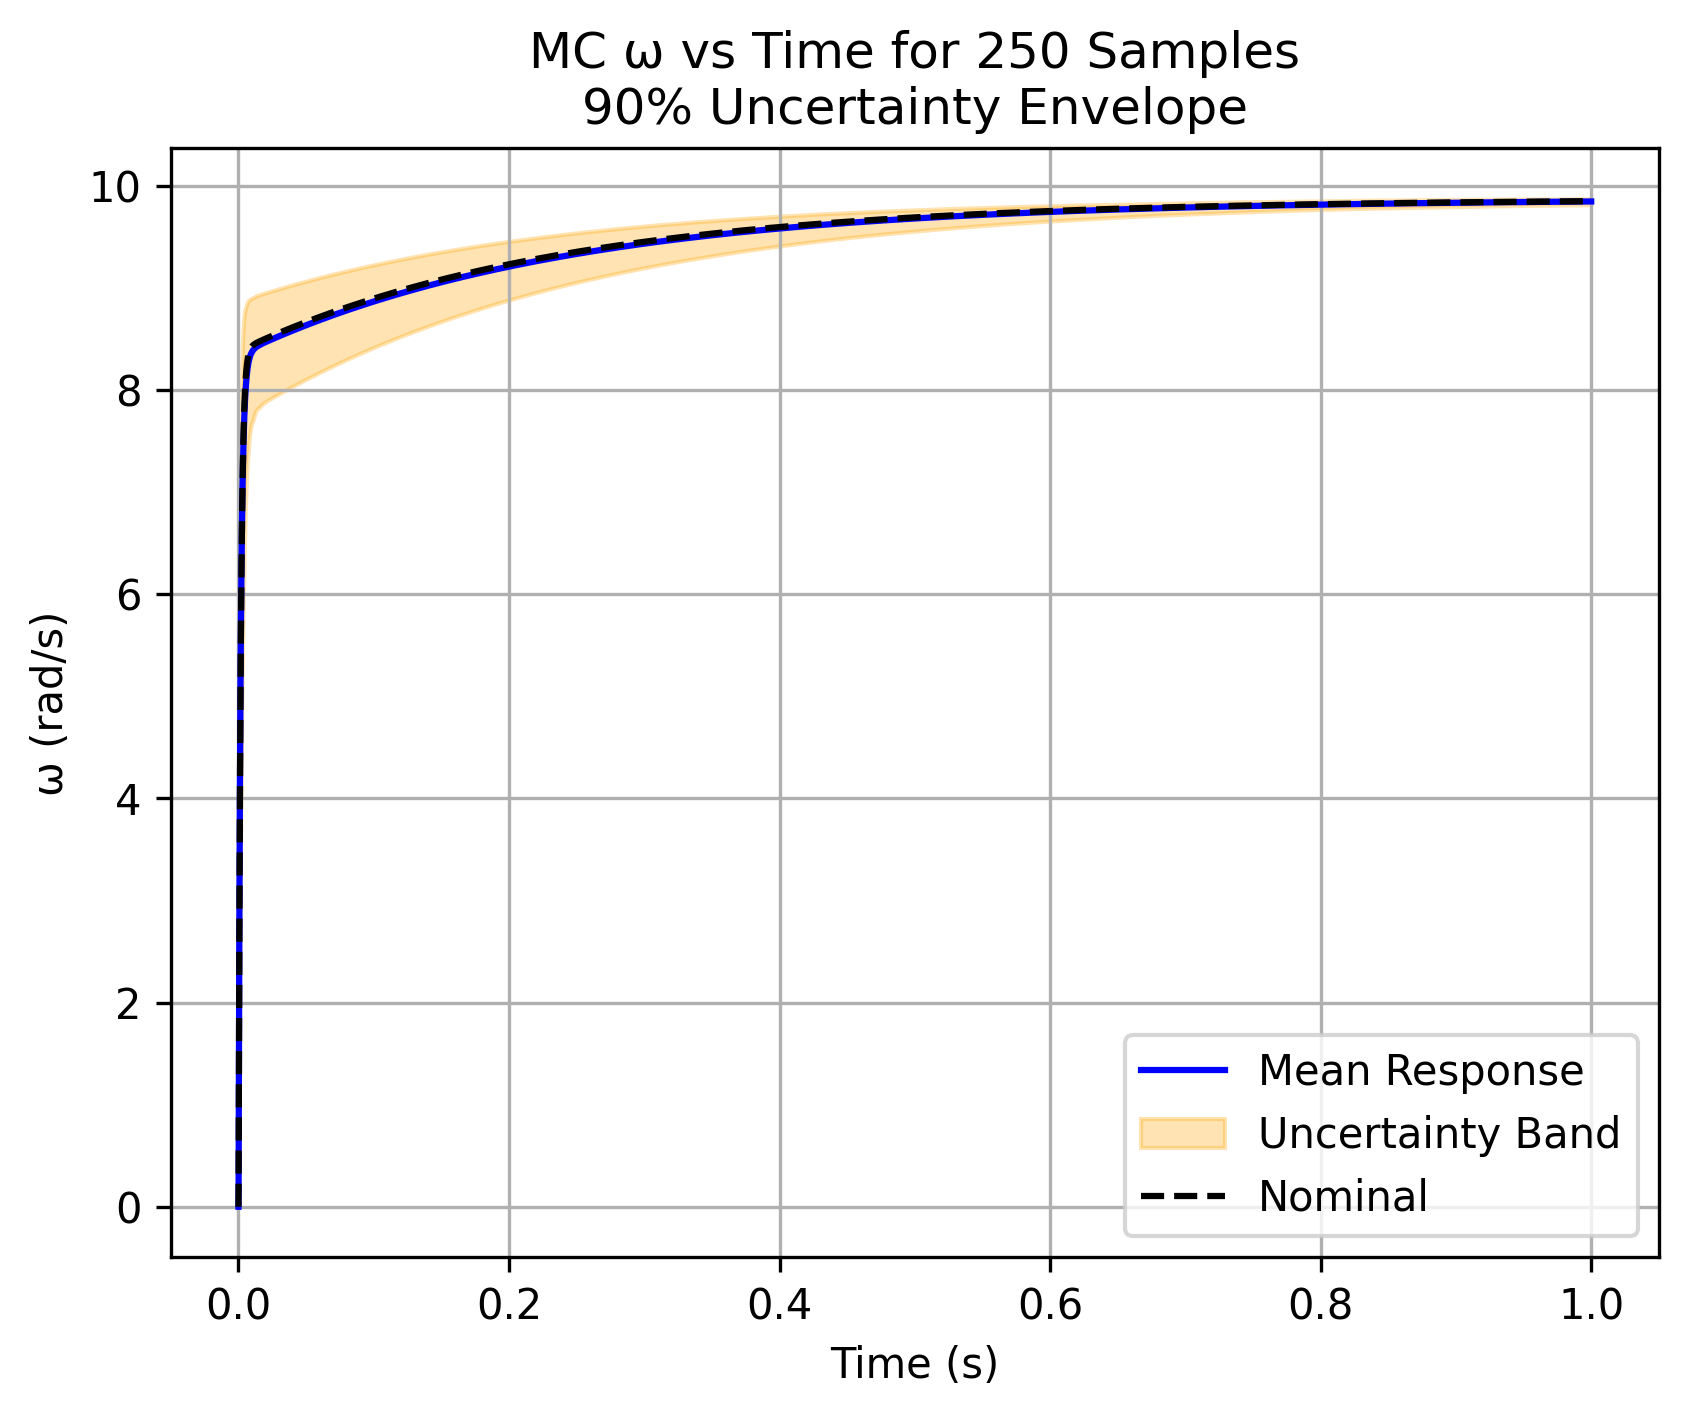
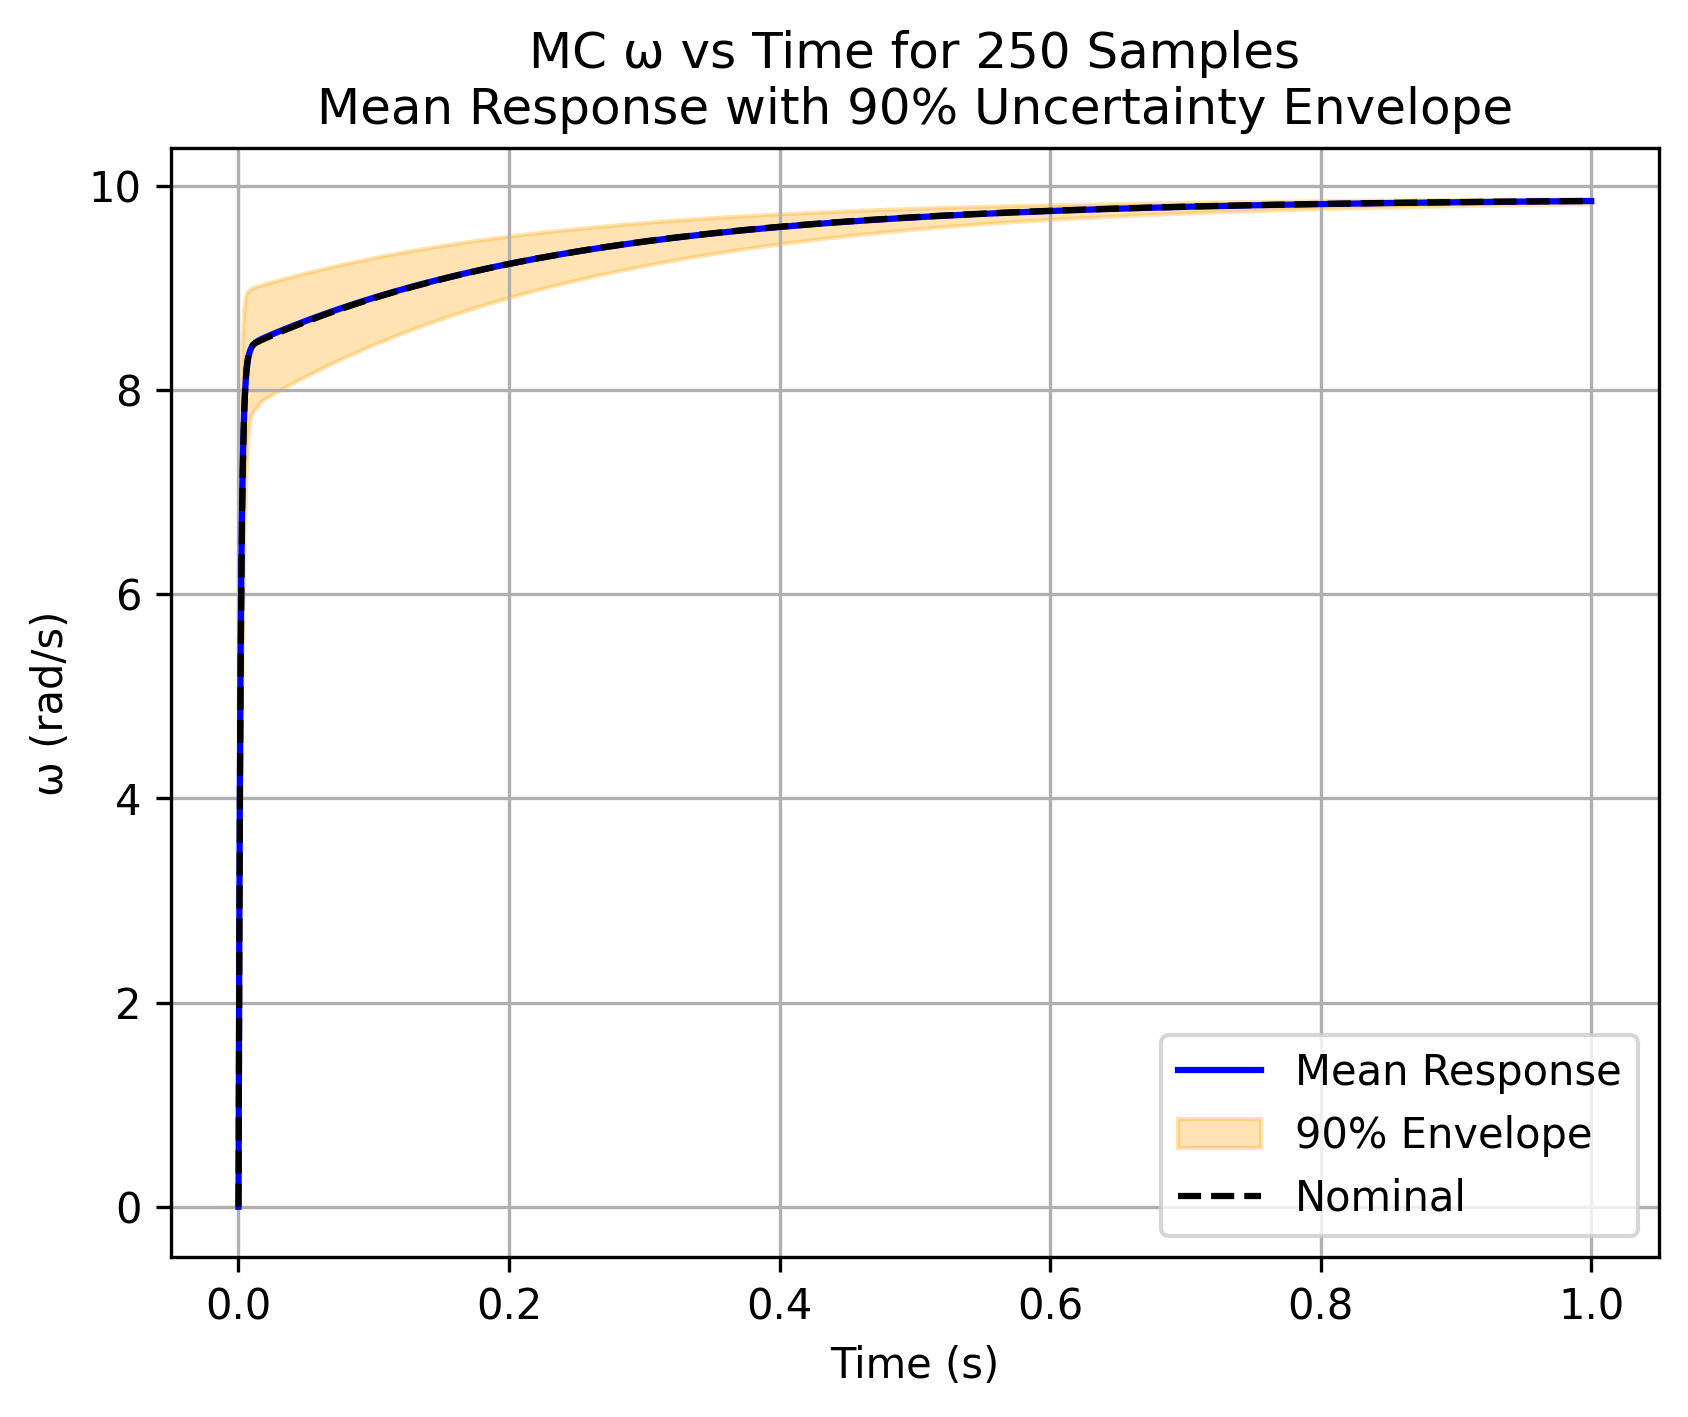
Fix w plotting solver bug. Fix histogram plotter.

diff --git a/dc_motor_uncertainty_simulation.py b/dc_motor_uncertainty_simulation.py
@@ -31,7 +31,7 @@ class CtrlPID:
         self.err_prev = err
         return P + I + D
 
-# Parallelism
+# Parallelism. Belongs in the MotorDC.
 def run_single_sample(args):
     params_i, y0, t_eval, target_w, pid_gains = args
 
@@ -99,36 +99,6 @@ class MotorDC():
         dwdt = (Kt*i - B*w)/J
         return [didt,dwdt]
 
-    def motor_model_solve(self, params_i:np.ndarray, y0:list, 
-                          t_span:tuple, t_eval:np.ndarray):
-        # fresh PID per sample solved.
-        pid = CtrlPID(target=self.target_w, gains=[self.Kp, self.Ki, self.Kd])
-
-        i_now = np.zeros_like(t_eval)
-        w_now = np.zeros_like(t_eval)
-
-        # Set IC
-        i_now[0], w_now[0] = y0
-        y = np.array(y0)
-
-        for k in range(len(t_eval)-1):
-            dt = t_eval[k+1] - t_eval[k]
-
-            # Update PID voltage  once per timestep
-            Vt = pid.sim_step(actual=w_now[k], dt=dt)
-
-            # Inegrate physics with constant Vt
-            sol = solve_ivp(fun = lambda t,y: self.motor_model(t, y, params_i, Vt), 
-                            t_span = (t_eval[k], t_eval[k+1]), 
-                            y0= y, 
-                            t_eval=[t_eval[k+1]]
-                            )
-            
-            y = sol.y[:, -1]
-            i_now[k+1], w_now[k+1] = y
-
-        return i_now, w_now
-
 # Sampling Methods
     def monte_carlo_sampling(self, n_samples:int=1000):
     # Make matrix to store vals. n_samples x n_params
@@ -179,11 +149,11 @@ class MotorDC():
         else:
             raise ValueError("Only: 'MC', 'LHS', and 'IS' sampling allowed.")
 
-    # Loop through all the samples in tqdm. Will take a while. 
         args_list = [
             (params[i], y0, self.t_eval, self.target_w, [self.Kp, self.Ki, self.Kd])
             for i in range(n_samples)
         ]
+        self.params = params
     
     # Convert lists to np arrays for faster handling
     # These are 2D matrices, with x being the sample number. 
@@ -198,6 +168,49 @@ class MotorDC():
 
         self.current = np.array(current)
         self.w = np.array(w)
+
+# What the histogram visuals use. 
+    def get_performance_metrics(self):
+            target_w = self.target_w
+
+        # Getting Performance Metrics. Each sample taken will have these associated 
+        # With them. 
+            times_rise         = []
+            times_settle       = []
+            percent_overshoots = []
+            ss_errs            = []
+
+            # How many times signal did not settle
+            i_ns = 0
+            for i in range(self.n_samples):
+                w_i   = self.w[i,:] # Pull the RPMs for a given sample
+                w_max = max(w_i)    # Find the max value
+            # If the max val is more than the target, we have overshoot. 
+                if (w_max > target_w):
+                    percent_overshoot = (w_max - target_w)/target_w*100
+                else:
+                    percent_overshoot = 0.0
+                percent_overshoots.append(percent_overshoot)
+            # SS error is based on final value. 
+                ss_errs.append(w_i[-1]-target_w)
+            # Rise time is the first time to reach 90% the target speed. 
+                times_rise.append(self.t_eval[w_i > target_w*0.9][0])
+            # Settling time is the time when the value is within 2% the target speed. 
+                try:
+                    time_settle = self.t_eval[np.where(abs(w_i - target_w) <= 0.02*target_w)[-1][0]]
+                    times_settle.append(time_settle)
+                except:
+                    i_ns += 1
+            if i_ns:
+                print(f"Signal did not settle {i_ns} times.")
+
+        # Convert to np arrays 
+            times_rise         = np.array(times_rise)
+            times_settle       = np.array(times_settle)
+            percent_overshoots = np.array(percent_overshoots)
+            ss_errs            = np.array(ss_errs)
+
+            return [times_rise, times_settle, percent_overshoots, ss_errs]
 
 # Mean and uncertainty plotting. 
     def solver_w_plot(self, title:str=None, save_dir:str="Images"):
@@ -218,8 +231,11 @@ class MotorDC():
         ax.plot(self.t_eval, w_mean, label="Mean Response", color="blue")
         ax.fill_between(self.t_eval, w_bnd_low, w_bnd_high, color="orange", alpha=0.3, label="90% Envelope")
         # Deterministic Trajectory
-        det_params = np.median(self.params_mean, axis=0)
-        det_i, det_w = self.motor_model_solve(det_params, [0,0], (0, self.t_eval[-1]), self.t_eval)
+        det_params = np.median(self.params, axis=0)
+        det_i, det_w = run_single_sample(
+            (det_params, [0,0], self.t_eval, self.target_w, [self.Kp, self.Ki, self.Kd])
+            )
+
         ax.plot(self.t_eval, det_w, label="Nominal", color="black", linestyle="--")
         ax.legend()
         ax.set_xlabel("Time (s)")
@@ -229,65 +245,40 @@ class MotorDC():
         fig.savefig(save_dir/ f"{title}.png", dpi=300,bbox_inches="tight")
         plt.close(fig)
 
-# What the histogram visuals use. 
-    def get_performance_metrics(self):
-            target_w = self.target_w
-
-        # Getting Performance Metrics. Each sample taken will have these associated 
-        # With them. 
-            self.times_rise         = []
-            self.times_settle       = []
-            self.percent_overshoots = []
-            self.ss_errs            = []
-
-            for i in range(self.n_samples):
-                w_i   = self.w[i,:] # Pull the RPMs for a given sample
-                w_max = max(w_i)    # Find the max value
-            # If the max val is more than the target, we have overshoot. 
-                if (w_max > target_w):
-                    percent_overshoot = (w_max - target_w)/target_w*100
-                else:
-                    percent_overshoot = 0.0
-                self.percent_overshoots.append(percent_overshoot)
-            # SS error is based on final value. 
-                self.ss_errs.append(w_i[-1]-target_w)
-            # Rise time is the first time to reach 90% the target speed. 
-                self.times_rise.append(self.t_eval[w_i > target_w*0.9][0])
-            # Settling time is the time when the value is within 2% the target speed. 
-                try:
-                    time_settle = self.t_eval[np.where(abs(w_i - target_w) <= 0.02*target_w)[-1][0]]
-                    self.times_settle.append(time_settle)
-                except:
-                    print("Signal did not settle.")
-        # Convert to np arrays 
-            self.times_rise         = np.array(self.times_rise)
-            self.times_settle       = np.array(self.times_settle)
-            self.percent_overshoots = np.array(self.percent_overshoots)
-            self.ss_errs            = np.array(self.ss_errs)
-
-
-            return self.times_rise,self.times_settle,self.percent_overshoots,self.ss_errs
-    
     def solver_histo_plot(self, save_dir:str="Images", title:str=None):
+    # Directory Setup 
         save_dir = BASE_DIR / save_dir
         save_dir.mkdir(exist_ok=True)
 
     # Retrieve the performance metrics analyzing
-        # times_rise,times_settle,percent_overshoots,ss_errs 
         metrics = self.get_performance_metrics()
-        x_labels = ["Rise Time (s)","Settling Time (s)",
-                    "Percent Overshoot (s)","Steady State Error (rps)"]
-        ylabel = "Appearances"
+        print(metrics[2])
+        labels = ["Rise Time (s)",
+                "Settling Time (s)",
+                "Percent Overshoot (%)",
+                "Steady-State Error (rad/s)"]
+        
+        # drop NaNs during plotting.
+        cleaned_metrics = [m[~np.isnan(m)] for m in metrics]
 
-    # Lots of plotting 
-        for i,label in enumerate(x_labels):
+        # Report number of NaNs occurred for debug.
+        for label, m in zip(labels, metrics):
+            n_nan = np.isnan(m).sum()
+            if n_nan > 0:
+                print(f"{label}: {n_nan} samples produced NaN values. Excluded these from histogram.")
+
+        for data,label in zip(cleaned_metrics, labels):
             fig, ax = plt.subplots()
-            ax.hist(metrics[i])
+
+            ax.hist(data, bins=30, color="blue", edgecolor="black")
             ax.set_xlabel(label)
-            ax.set_ylabel(ylabel=ylabel)
+            ax.set_ylabel("Count")
             ax.set_title(title)
-            fig.savefig(histograms_dir / f"{label} {title}.png")
-            plt.close()
+
+            # Clean the filename
+            safe_label = label.replace("/","_").replace("(","").replace(")","").replace(" ","_")
+            fig.savefig(save_dir / f"{safe_label}_{title}.png", dpi=300, bbox_inches="tight")
+            plt.close(fig)
 
     def metric_printer(self):
         print(f"Max motor speed DEVIATION (RPM): {max(self.w.std(0))}")
@@ -330,8 +321,8 @@ def main():
                     sampler=j, y0=[0.0,0.0])
 # Plots w response. 
     dc_motor.solver_w_plot(title=f"{j} \u03C9 vs Time for {i} Samples")
-# Gets the performance metricss and makes a histogram out of it. 
-    # dc_motor.solver_histo_plot(title=f"{j} metric for {i} Samples")
+# Gets the performance metrics and makes a histogram out of it. 
+    dc_motor.solver_histo_plot(title=f"{j} metric for {i} Samples")
 # Display them for sanity checks
     # dc_motor.metric_printer()
     # print("\n")
